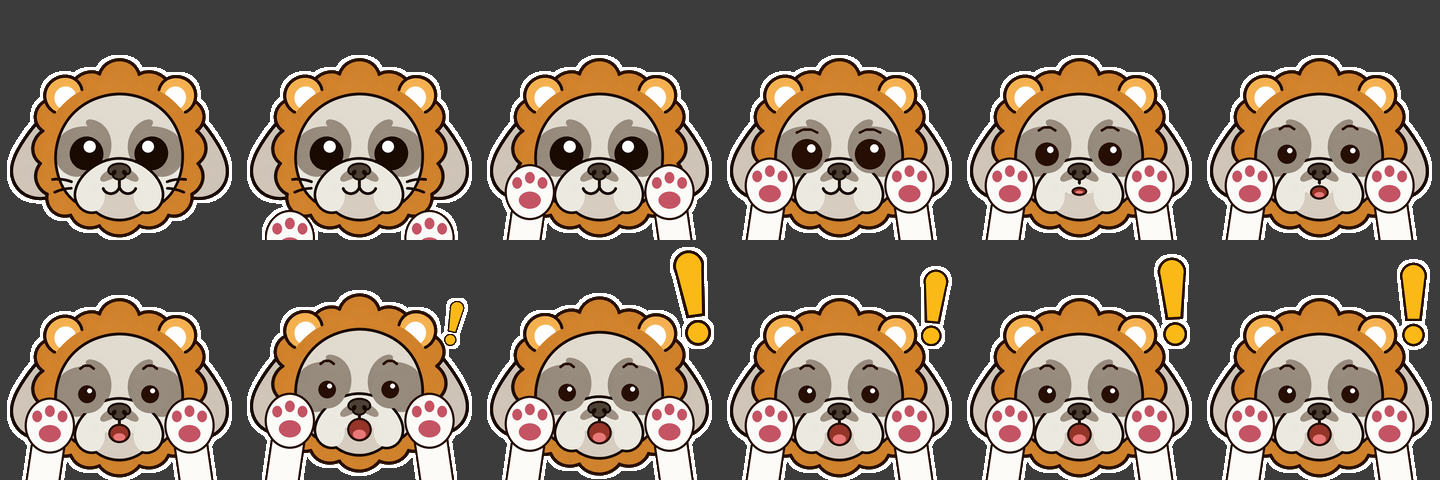
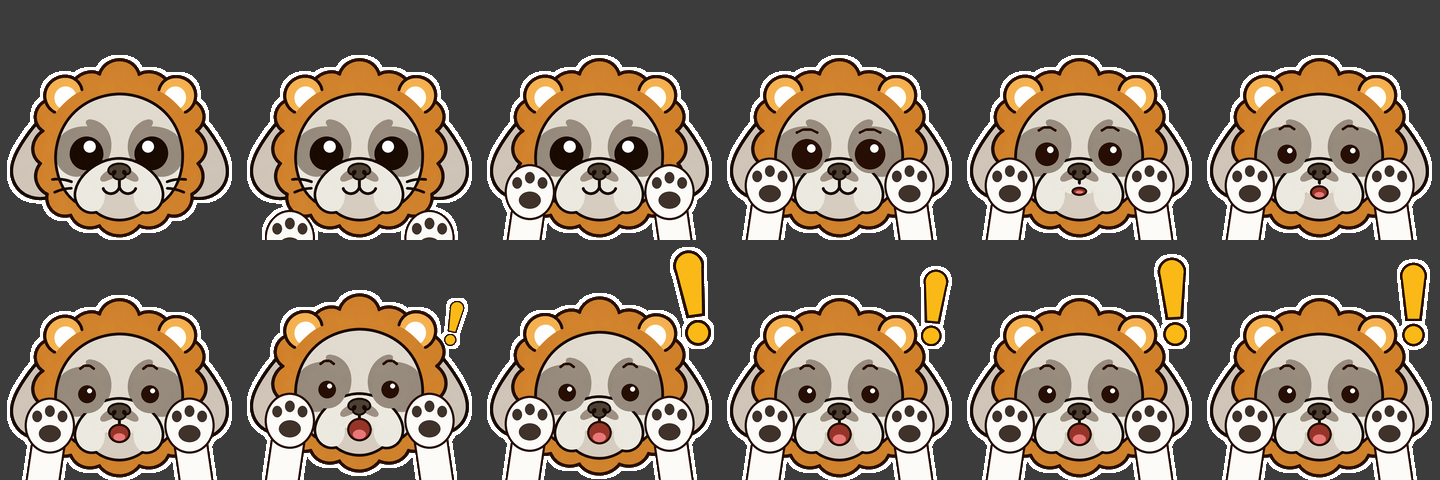
Make paw pads dark on the surprise sticker
Claude-Session: https://claude.ai/code/session_01KX3WDfyPkAofSs6dqvGAmw

diff --git a/.claude/skills/stamp-create/SKILL.md b/.claude/skills/stamp-create/SKILL.md
@@ -85,7 +85,7 @@ print(ms.verify("assets/gif/名前.gif"))                     # 検証
 - パーツは元の絵の輪郭線の色（こげ茶）と太さに合わせ、塗りは元の絵にある色から選ぶ。
 - 表情を変えるときは、消したい線（笑った口など）を周りの色で塗りつぶしてから新しい線を描く。
 - 驚き顔は**白目を見せない**（ユーザーの好み）。黒目を少しずつ小さくし（ハイライトは残す）、眉を小さく短くしながら上げて目元を変える。元の黒目は、目の周りの模様の色を測ってその色の単色で塗りつぶしてから描き直す（ぼかしで埋めるとにじみが出る）。
-- 前足は**白**で**画面の下から**せり上がらせ、手のひら側を見せる。手のひらは大きめにし、肉球は濃いめのピンク（例 RGB 196,84,100）で、大きな肉球1つと指先の小さな肉球3つにする。
+- 前足は**白**で**画面の下から**せり上がらせ、手のひら側を見せる。手のひらは大きめにし、肉球は黒っぽい色（例 RGB 62,50,42。鼻の色より少し濃い）で、大きな肉球1つと指先の小さな肉球3つにする。
 - 画面の外から入ってくるパーツは、切り抜き範囲（`crop`）を固定にして、端で切れて見えるようにする。
 - 弾んで出てくるマークは、大きさを `0.55 → 1.15 → 0.92 → 1.06 → 1.0` のように行き過ぎてから戻すと元気に見える。一番大きくなるコマで画面からはみ出していないか、確認用シートで確かめる。
 
